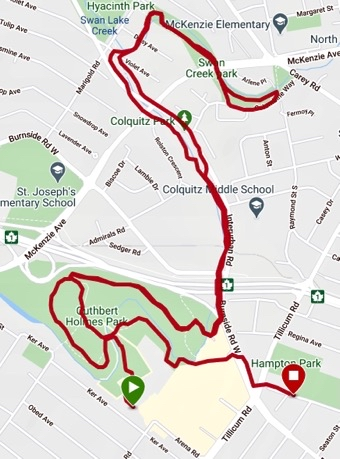
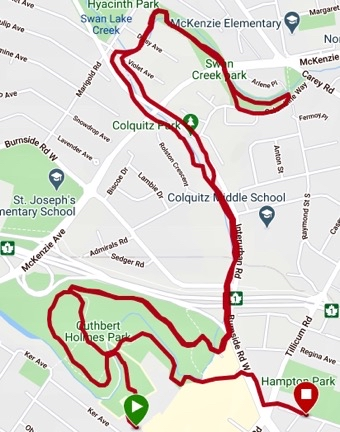
Training log update

diff --git a/content/traininglog/20210314-ironman2021-24weeksout.md b/content/traininglog/20210314-ironman2021-24weeksout.md
@@ -23,7 +23,7 @@ Day 2 TAC Routine.  Run/Walk 60 minutes: 10 minutes walking to warm up/start/ 40
 ### NOTES
 Total Time: **60 minutes**
 
-I spent time with both TAC routines before heading out for the walk/run.  My QL is sore this morning but in good enough shape to put on socks and good enough shape for me to get out the door.  I walked to _Pearkes Arena_ before pressing start on the run.  I spent 90% of my time on the dirt trails of _Culthbert Homes and Colquitz River Parks_.   My back felt good; zero issues with the activity of running.  I did feel soreness in my left piriformis but for the most part, this was easily breathing, marathon pace for the prescribed 50 minutes.
+I spent time with both TAC routines before heading out for the walk/run.  My QL is sore this morning but in good enough shape to put on socks and good enough shape for me to get out the door.  I walked to _Pearkes Arena_ before pressing start on the run.  I spent 90% of my time on the dirt trails of _Cuthbert Homes, Colquitz River and Swan Creek Parks_.   My back felt good; zero issues with the activity of running.  I did feel soreness in my left piriformis but for the most part, this was easily breathing, marathon pace for the prescribed 50 minutes.
 <!---->
 ### RUN THROUGH THE PARK(s)
 ![Run Map](/assets/jpg/runmap-20210314.jpeg)
